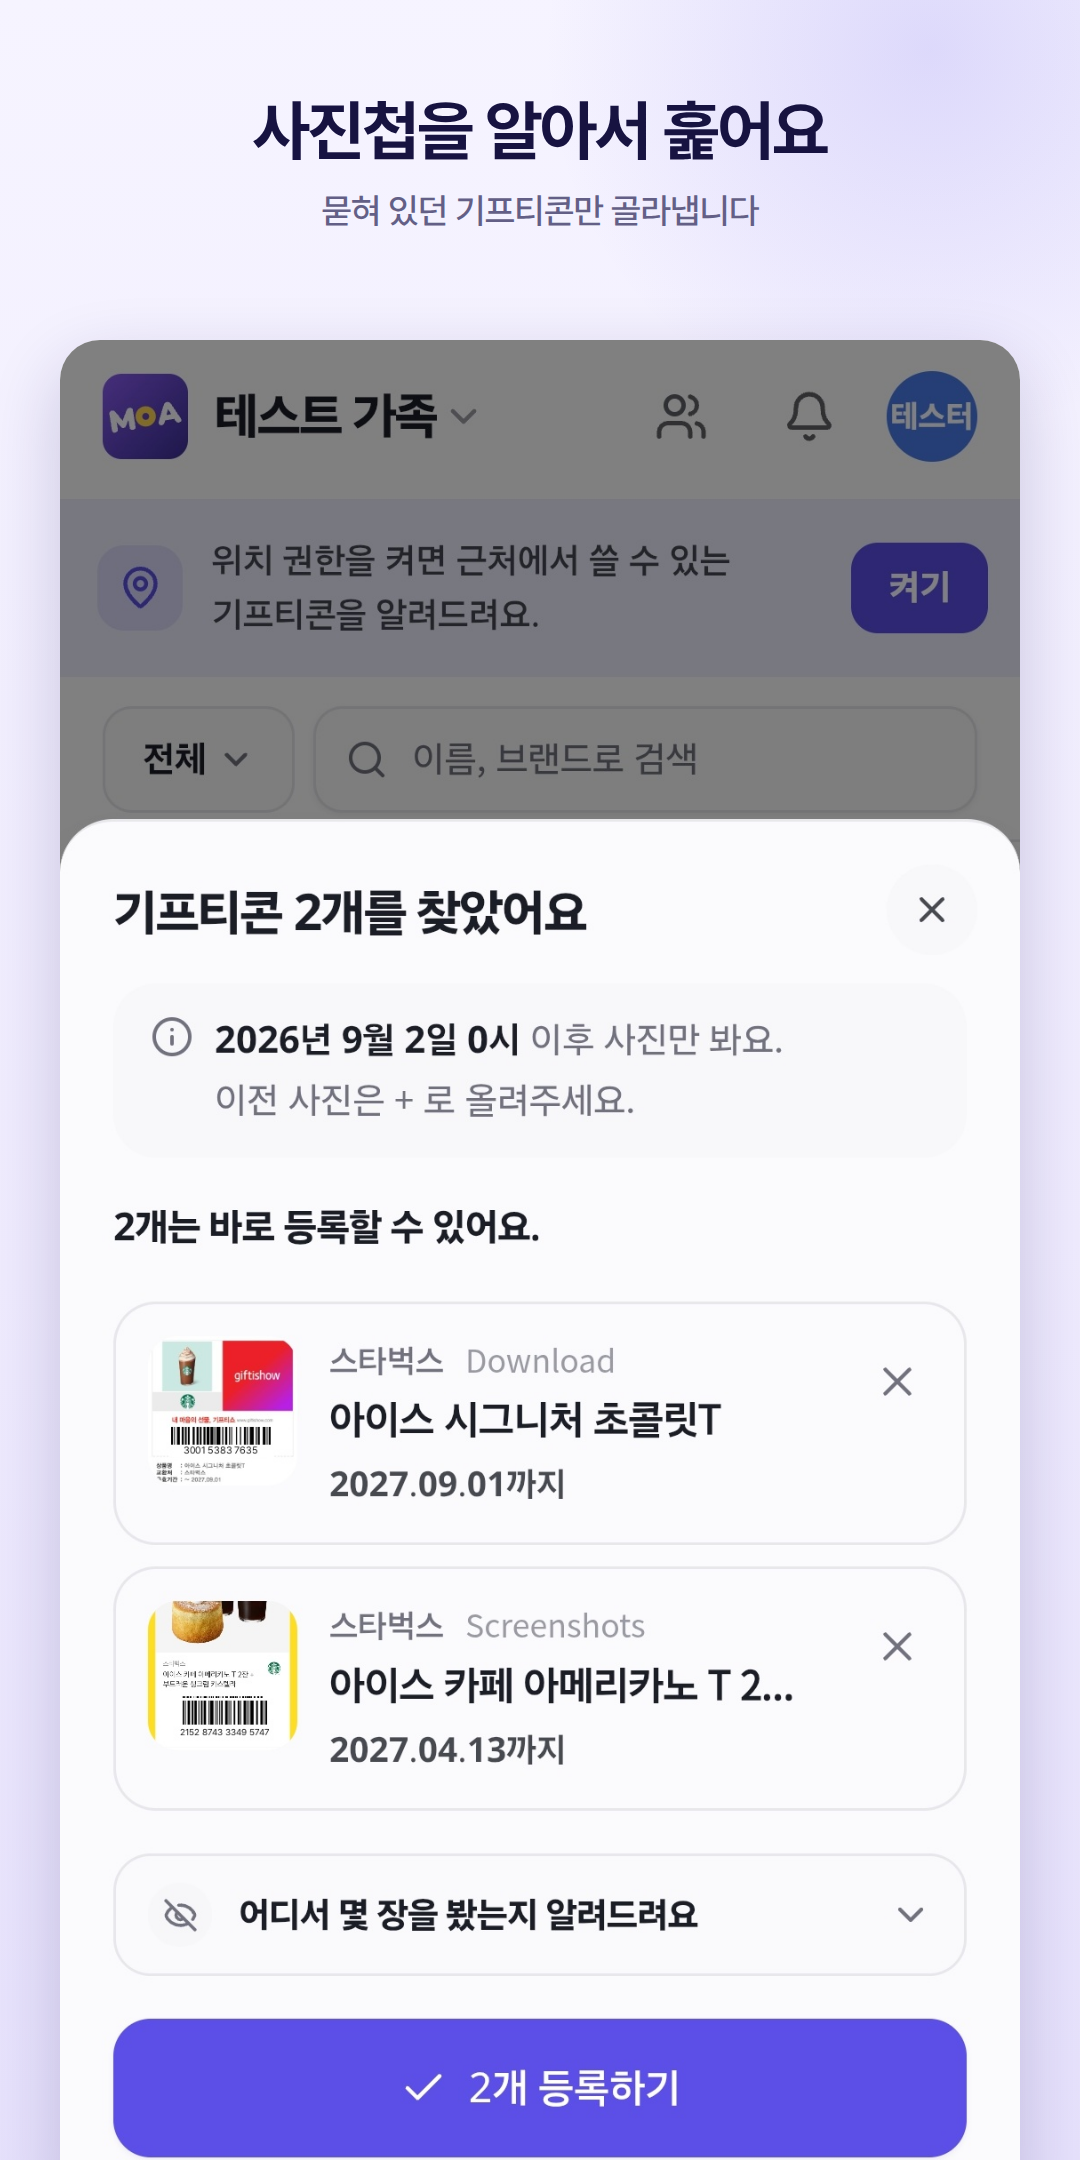
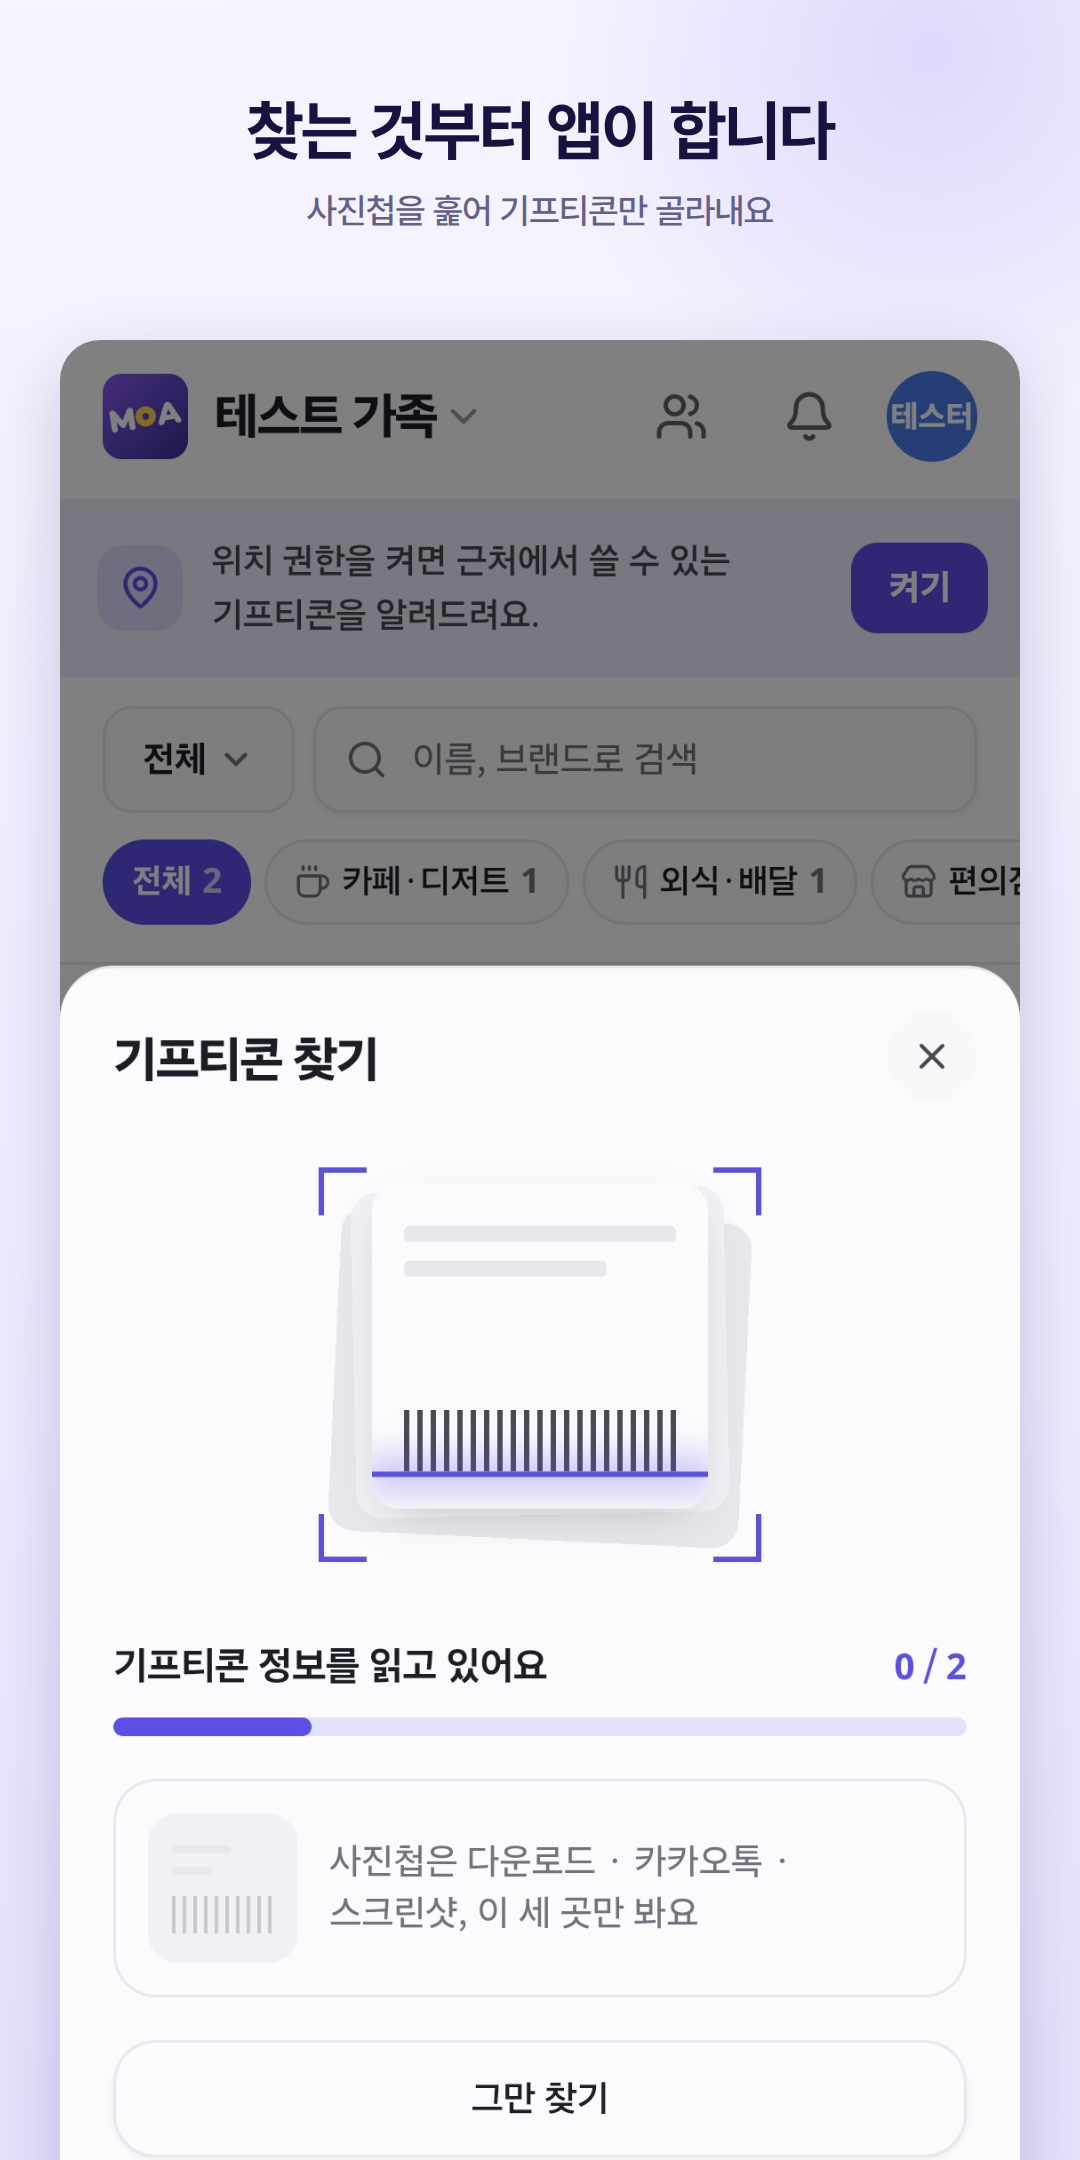
사진첩 훑기 스크린샷을 결과 대신 훑는 도중 화면으로
스캔 그림과 진행 막대가 있어 앱이 알아서 한다는 것이 한눈에 보이고,
"다운로드 · 카카오톡 · 스크린샷, 이 세 곳만 봐요" 한 줄이 화면 안에 이미 있다.

Claude-Session: https://claude.ai/code/session_0162SJJHihdyv8vNrHmvGXqM

diff --git a/docs/store-listing.md b/docs/store-listing.md
@@ -161,7 +161,7 @@ https://ceaser501.github.io/our-home-gift/privacy.html
 | # | 파일 | 화면 |
 |---|---|---|
 | 1 | `assets/marketing/screenshots/01-list.png` | 목록 |
-| 2 | `assets/marketing/screenshots/02-scan.png` | 사진첩에서 찾은 결과 |
+| 2 | `assets/marketing/screenshots/02-scan.png` | 사진첩 훑는 중 |
 | 3 | `assets/marketing/screenshots/03-form.png` | 자동으로 채워진 등록 화면 |
 | 4 | `assets/marketing/screenshots/04-barcode.png` | 상세 · 바코드 |
 | 5 | `assets/marketing/screenshots/05-push.png` | 알림 (실물이 없어 앱이 보내는 문구로 만든 것) |
@@ -182,13 +182,17 @@ https://ceaser501.github.io/our-home-gift/privacy.html
 | # | 찍을 화면 | 큰 글씨 | 작은 글씨 |
 |---|---|---|---|
 | 1 | 기프티콘 목록 | 기한이 급한 것부터 위로 | 며칠 남았는지 한눈에 보여요 |
-| 2 | 사진첩에서 찾은 결과 (안드로이드) | 사진첩을 알아서 훑어요 | 묻혀 있던 기프티콘만 골라냅니다 |
+| 2 | 사진첩 훑는 중 (안드로이드) | 찾는 것부터 앱이 합니다 | 사진첩을 훑어 기프티콘만 골라내요 |
 | 3 | 자동으로 채워진 등록 화면 | 사진만 올리면 끝 | 상품명 · 금액 · 유효기한이 저절로 |
 | 4 | 상세 · 바코드 | 매장에선 대기만 하면 돼요 | 금액권은 쓴 만큼 잔액이 계산돼요 |
 | 5 | 기한 임박 푸시가 뜬 잠금화면 | 기한 놓칠 일이 없어요 | 만료 전에 알림으로 알려드려요 |
 | 6 | 근처 매장 지도 · 길찾기 | 쓸 수 있는 곳을 지도에서 | 길찾기 · 전화까지 바로 |
 | 7 | 가족 초대 | 가족이 같은 서랍을 봅니다 | 카카오톡 링크 하나로 초대 |
 | 8 | 사용 내역 | 우리 집이 얼마나 아꼈나 | 누가 언제 썼는지 그대로 남아요 |
+
+2번은 훑는 도중 화면이다. 결과 목록보다 이쪽이 낫다 — 스캔 그림과 진행 막대가
+있어서 "앱이 알아서 한다"가 한눈에 보이고, 「다운로드 · 카카오톡 · 스크린샷, 이 세
+곳만 봐요」 한 줄이 화면 안에 이미 들어 있다.
 
 **2번은 안드로이드에만 있다.** 사진첩을 훑는 기능은 iOS에 없다. App Store는 스크린샷을
 따로 올리므로, 거기서는 2번을 빼고 7장으로 낸다. Play는 8장 그대로.
